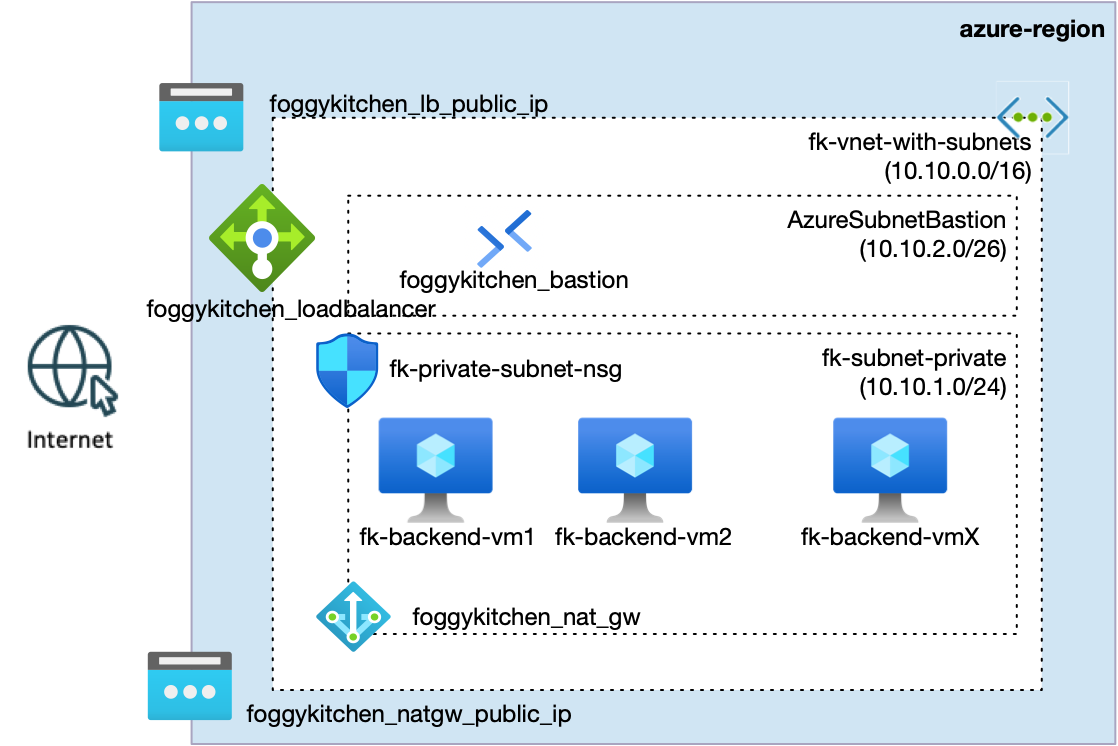
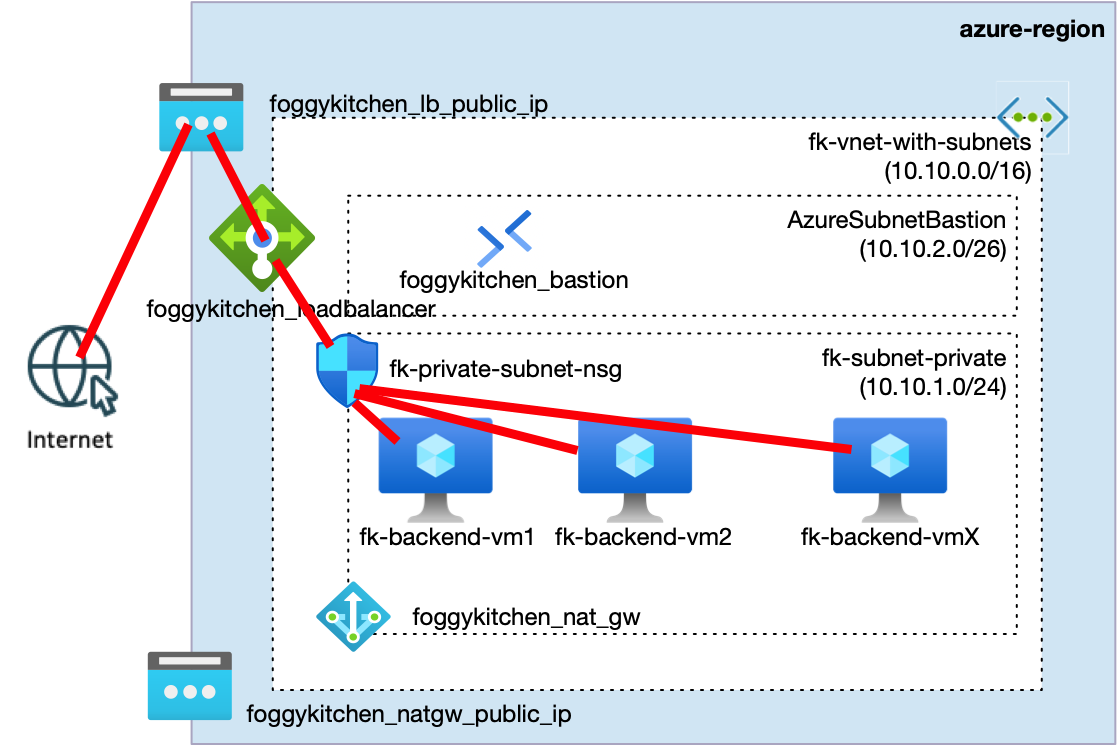
Updated png and README

diff --git a/examples/03_multiple_vms_with_lb/README.md b/examples/03_multiple_vms_with_lb/README.md
@@ -97,6 +97,19 @@ Accessing the Load Balancer public IP should display the NGINX demo page.
 
 ---
 
+## 📚 Related Reading
+
+This example is also covered in a dedicated architectural blog post:
+
+**🔗 Private Azure Virtual Machines with Terraform — Load Balancer & Bastion (2026 Edition)**  
+https://foggykitchen.com/2025/12/29/azure-private-vm-terraform/
+
+The article explains the architecture behind this setup —  
+why private VMs + Load Balancer + Bastion are a common baseline  
+before moving toward autoscaling and Kubernetes workloads.
+
+---
+
 ## 🔐 Accessing Backend VMs via Azure Bastion (SSH Tunnel)
 
 In this example, **backend virtual machines do not have public IP addresses**.
